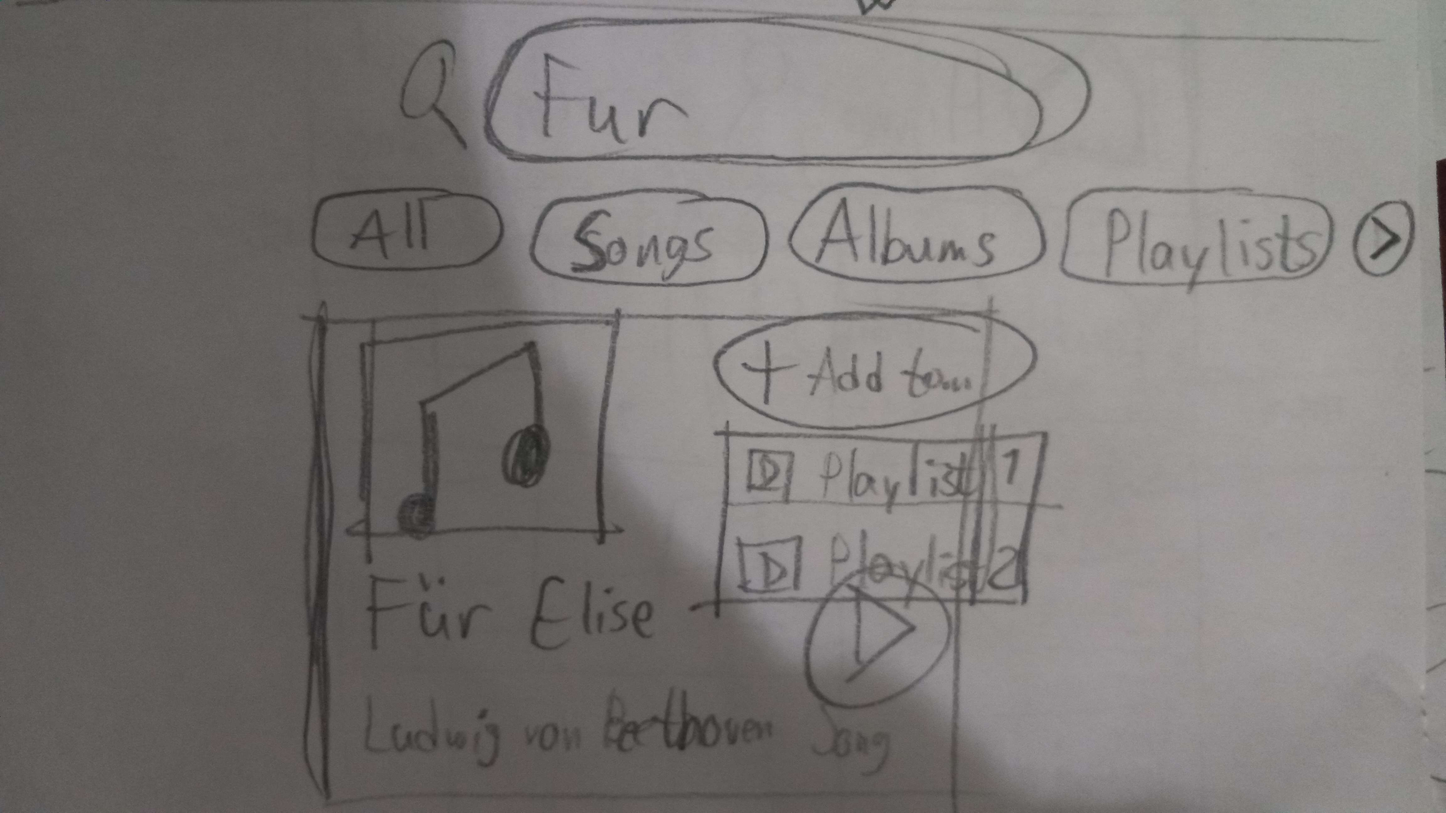
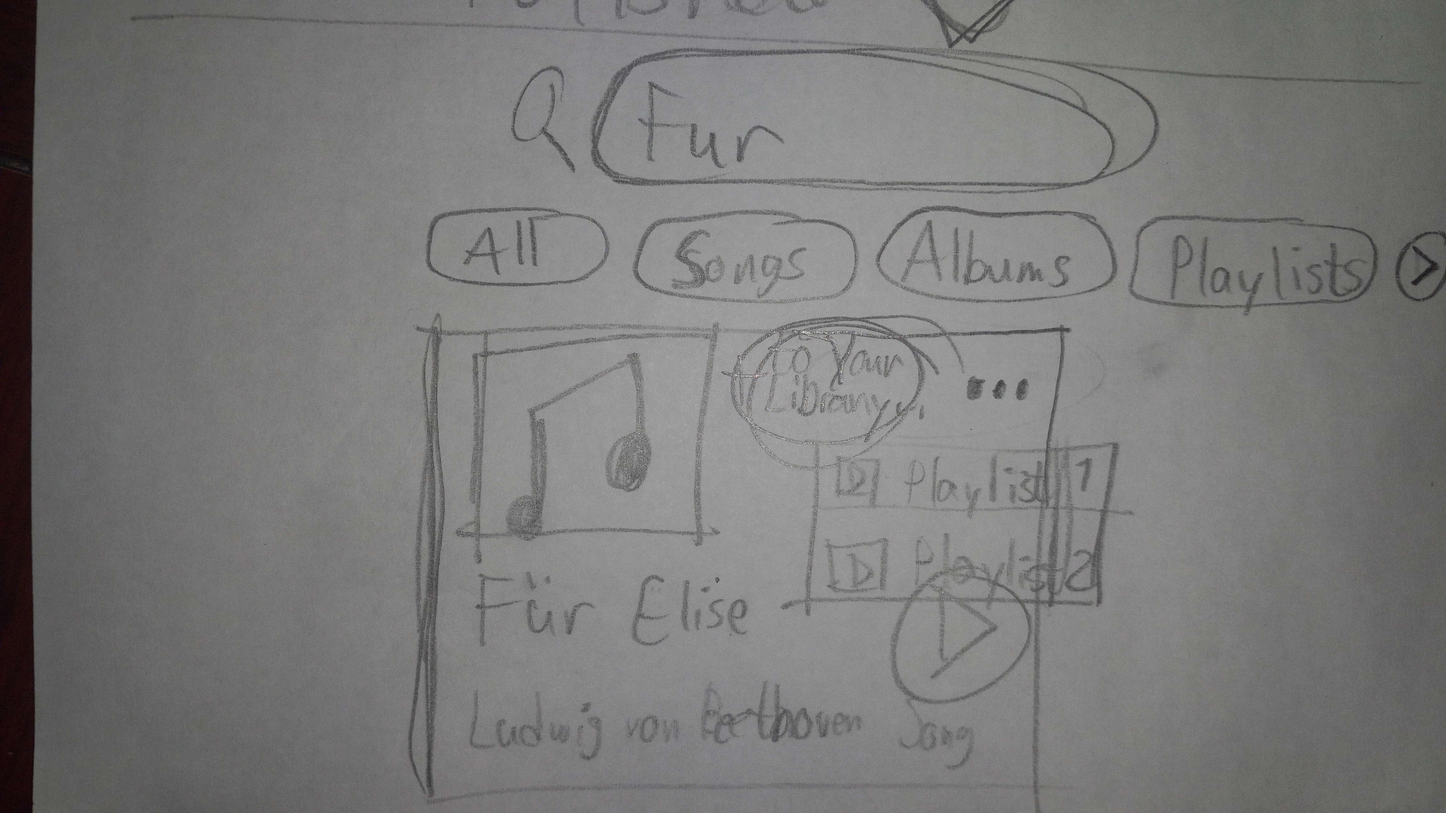
Add modified buttons

diff --git a/Cookies_local_storage/0-index.html b/Cookies_local_storage/0-index.html
@@ -1,0 +1,48 @@
+<!DOCTYPE html>
+<html lang="en" dir="ltr">
+    <head>
+        <meta charset="UTF-8">
+        <meta name="viewport" content="width=device-width, initial-scale=1.0">
+        <title>Create basic cookie</title>
+
+        <script>
+            /*
+             * Sets the document's cookie's
+             * 'firstname' be equal to
+             * the content in the text input
+             * with 'firstname' as its id,
+             * and 'email' to be equal to
+             * the content in the text input with
+             * 'email' as its id.
+             */
+            function setCookies() {
+                const firstName = document.getElementById('#firstname').value;
+                document.cookie = `firstname=${firstName}`;
+
+                const email = document.getElementById('#email').value;
+                document.cookie = `email=${email}`;
+            }
+
+            /*
+             * Appends a paragraph that contains "Cookies:"
+             * and another paragraph containing 'document.cookie'.
+             */
+            function showCookies() {
+                document.createElement('<p>Cookies:</p>');
+
+                const cookiesP = document.createElement('p');
+                cookiesP.appendChild(
+                    document.createTextNode(document.cookie)
+                );
+            }
+        </script>
+    </head>
+    <body>
+        <h1>Login to the website</h1>
+        <input id="firstname" type="text">
+        <input id="email" type="text">
+        <button>Log me in</button>
+        <h1>Cookies</h1>
+        <button>Show the cookies</button>
+    </body>
+</html>

diff --git a/responsive_design/08-styles.css b/responsive_design/08-styles.css
@@ -354,25 +354,7 @@
     .header .menu-icon .navicon::after {
       top: -.7rem;
     }
-  }
-
-  @media screen and (max-width: 480px) {
-    .header-logo {
-      flex-basis: 70%;
-    }
-  }
-
-  @media screen and (min-width: 481px) and (max-width: 767px) {
-    .header-logo {
-      flex-basis: 79%;
-    }
-  }
-
-  @media screen and (min-width: 768px) {
-    .header .menu-icon {
-      display: none;
-    }
-  }
+  } 
 
   /* Header
       ============================= */
@@ -438,9 +420,21 @@
     }
   }
 
-  @media screen and (max-width: 480px) {
+ @media screen and (max-width: 480px) {
     .header-logo {
       flex-basis: 70%;
+    }
+  }
+
+  @media screen and (min-width: 481px) and (max-width: 767px) {
+    .header-logo {
+      flex-basis: 79%;
+    }
+  }
+
+  @media screen and (min-width: 768px) {
+    .header .menu-icon {
+      display: none;
     }
   }
 

diff --git a/responsive_design/06-styles.css b/responsive_design/06-styles.css
@@ -339,25 +339,7 @@
       top: -.7rem;
     }
   }
-
-  @media screen and (max-width: 480px) {
-    .header-logo {
-      flex-basis: 70%;
-    }
-  }
-
-  @media screen and (min-width: 481px) and (max-width: 767px) {
-    .header-logo {
-      flex-basis: 79%;
-    }
-  }
-
-  @media screen and (min-width: 768px) {
-    .header .menu-icon {
-      display: none;
-    }
-  }
-
+ 
   /* Header
       ============================= */
   
@@ -427,6 +409,19 @@
       flex-basis: 70%;
     }
   }
+
+  @media screen and (min-width: 481px) and (max-width: 767px) {
+    .header-logo {
+      flex-basis: 79%;
+    }
+  }
+
+  @media screen and (min-width: 768px) {
+    .header .menu-icon {
+      display: none;
+    }
+  }
+
 
   /* Footer
       ============================= */

diff --git a/responsive_design/07-styles.css b/responsive_design/07-styles.css
@@ -356,24 +356,6 @@
     }
   }
 
-  @media screen and (max-width: 480px) {
-    .header-logo {
-      flex-basis: 70%;
-    }
-  }
-
-  @media screen and (min-width: 481px) and (max-width: 767px) {
-    .header-logo {
-      flex-basis: 79%;
-    }
-  }
-
-  @media screen and (min-width: 768px) {
-    .header .menu-icon {
-      display: none;
-    }
-  }
-
   /* Header
       ============================= */
   
@@ -441,6 +423,18 @@
   @media screen and (max-width: 480px) {
     .header-logo {
       flex-basis: 70%;
+    }
+  }
+
+  @media screen and (min-width: 481px) and (max-width: 767px) {
+    .header-logo {
+      flex-basis: 79%;
+    }
+  }
+
+  @media screen and (min-width: 768px) {
+    .header .menu-icon {
+      display: none;
     }
   }
 

diff --git a/designer_language/research.md b/designer_language/research.md
@@ -63,7 +63,7 @@ The biggest opportunities for improvement that I saw, after doing the sketches a
 ## Note
 This is my first UX project, and the point of this blog post is for me to learn, so if you have any constructive feedback, I'd love to hear it!
 
-Also, I want to appologize, because I've never used Spotify, and I didn't even try to use the interface. Most of the ideas I made, I made before I even searched for a song online. So, let me know all of the inaccuracies I made in this project, your feedback on my ideas, and what I could improve. God bless you.
+Also, I want to appologize, because I've never used Spotify, and I didn't even try to use the interface. Most of the ideas I made, I made before I even searched for a song online. I ended up refining some things later. So, let me know all of the inaccuracies I made in this project, your feedback on my ideas, and what I could improve. God bless you.
 
 ## Ideas
 - Sort the songs automatically?
@@ -82,7 +82,7 @@ Each set of options would popup when collapsing a folder, playlist, song, etc...
 ### Just make the searchbars be able to yield results for ANYTHING in its category.
 After trully inspecting the Spotify GUI, I realized that you already can find particular songs inside of a separate search bar for a playlist, **But you can't find a song through the main "Your Library" searchbar.**
 
-I think that having the "Your Library" searchbar look for EVERYTHING in "Your Library" is better **when you don't know where to look for things.** For example: searching in a folder should yield results for all of the playlists there, and all the songs there, in any of those playlists, as well.
+I think that having the "Your Library" searchbar look for EVERYTHING in "Your Library" is better, **when you don't know where to look for things.** For example: searching in a folder should yield results for all of the playlists there, and all the songs there, in any of those playlists, as well.
 
 Then, I'd have every sub-searchbar that may appear in the app do the same, for maximum coverage.
 
@@ -131,6 +131,8 @@ There should be a ``+`` button to add a song being played from public results, t
 
 ## Final 3-in-1 Solution
 
+After reviewing my work a bit more, and tweaking and considering my final solution, I've decided:
+
 ### Specify more what each widget does
 - move the ``Home Search Online`` panel to be a header, **to make it easier for Regina to know that that searchbar is public, and not private**
 - Make all of the searchbars have intuitive placeholders that say where each searchbar is searching, **to give Regina more of a clue to where she's searching**
@@ -143,7 +145,7 @@ There should be a ``+`` button to add a song being played from public results, t
 - Add ``Genre`` and ``Year`` as ``Sort by`` options, since **Regina felt frustrated about that in her user chart**.
 
 ### Add 2 more options to add songs to Your Library
-- Add an ``Add to Your Library...`` button on a song result in Soptify's public search results, and not just in the playlist, **to make it easier for her to add it**. Inside the popup that button triggers should be an option to create a new playlist/folder to put the song in.
+- Un-hide the ``Add to Your Library...`` and ``Add to playlist..`` popups on public playlist and song results, **to make it easier for her to add it**. Having the ``...`` buttons only show up when the mouse is hovering the song makes it much harder to know how to add the song to ``Your Library``.
 
 - Add two ways to add a song in a library: search for songs online, or use songs already in ``Your Library`` (The songs would be added as a "link" to a song. This would allow results to not repeat when being searched, while still maintaining copies of songs in multiple playlists/folders when necessary)
 
@@ -167,10 +169,10 @@ I'm not sure if sorting by Genre is always possible, but I think it could work i
 <img src="chosen_idea_5.jpg">
 (The first image is the top result of a song online, and the second is a playlist online)
 
-Anything that could be added to ``Your Library`` found online should have an option called ``Add to Your Library...``, that spawns a pop-up or extends a menu that gives Regina the option to save it somewhere.
+Anything that could be added to ``Your Library`` found online should have a VISIBLE button called ``Add to Your Library...``, that spawns a pop-up or extends a menu that gives Regina the option to save it somewhere. The buttons Spotify have are hidden inside a ``...`` popup button, which only shows up when the mouse hovers the song, but that's very unclear.
 
 ## Why did I choose these ones?
-I thought they would give more control, express purpose clearly, allow Regina to find and add songs to her library in less steps.
+I thought they would give more control, express purpose clearly, and allow Regina to find and add songs to her library in less steps.
 
 Some other solutions I made had less control or were a bit overwhelming. Although this final solution is also a bit overwhelming.
 

diff --git a/Cookies_local_storage/README.md b/Cookies_local_storage/README.md
@@ -1,0 +1,2 @@
+# Cookies and Local Storage
+## With JS
